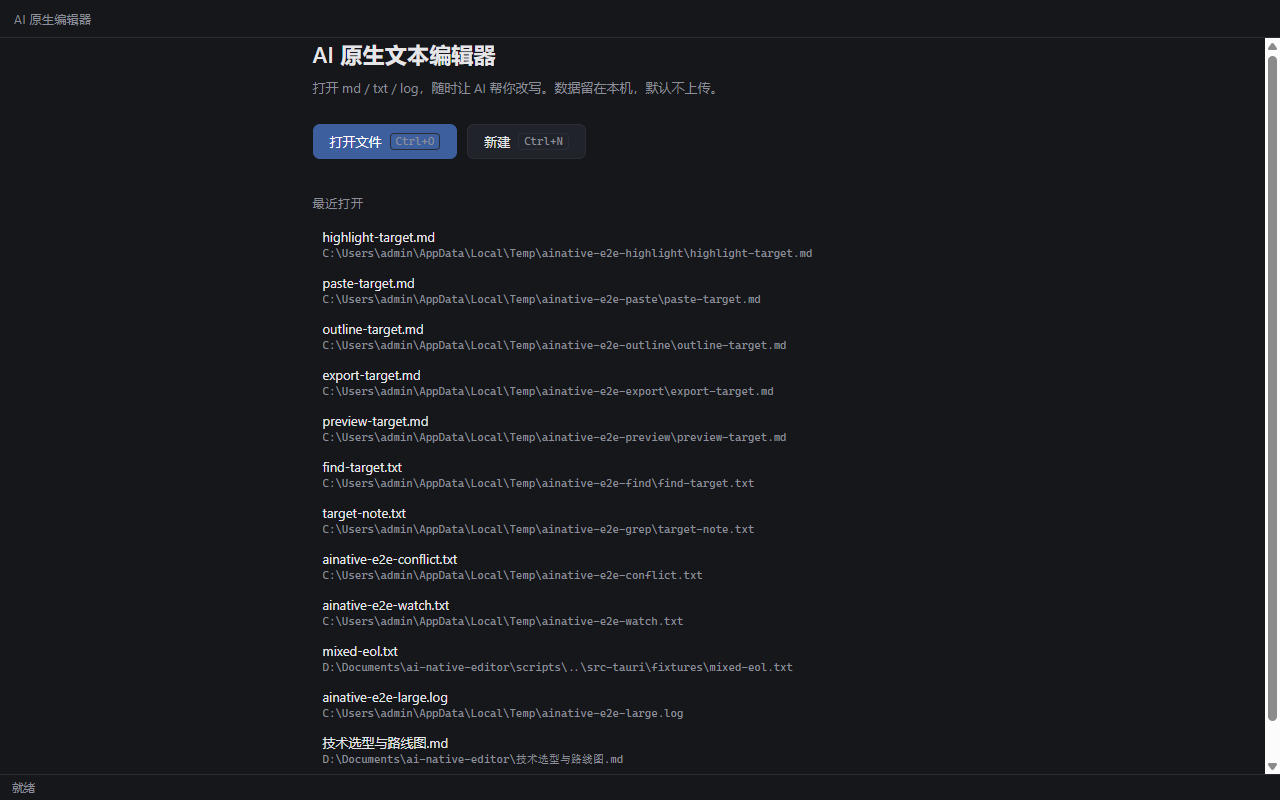
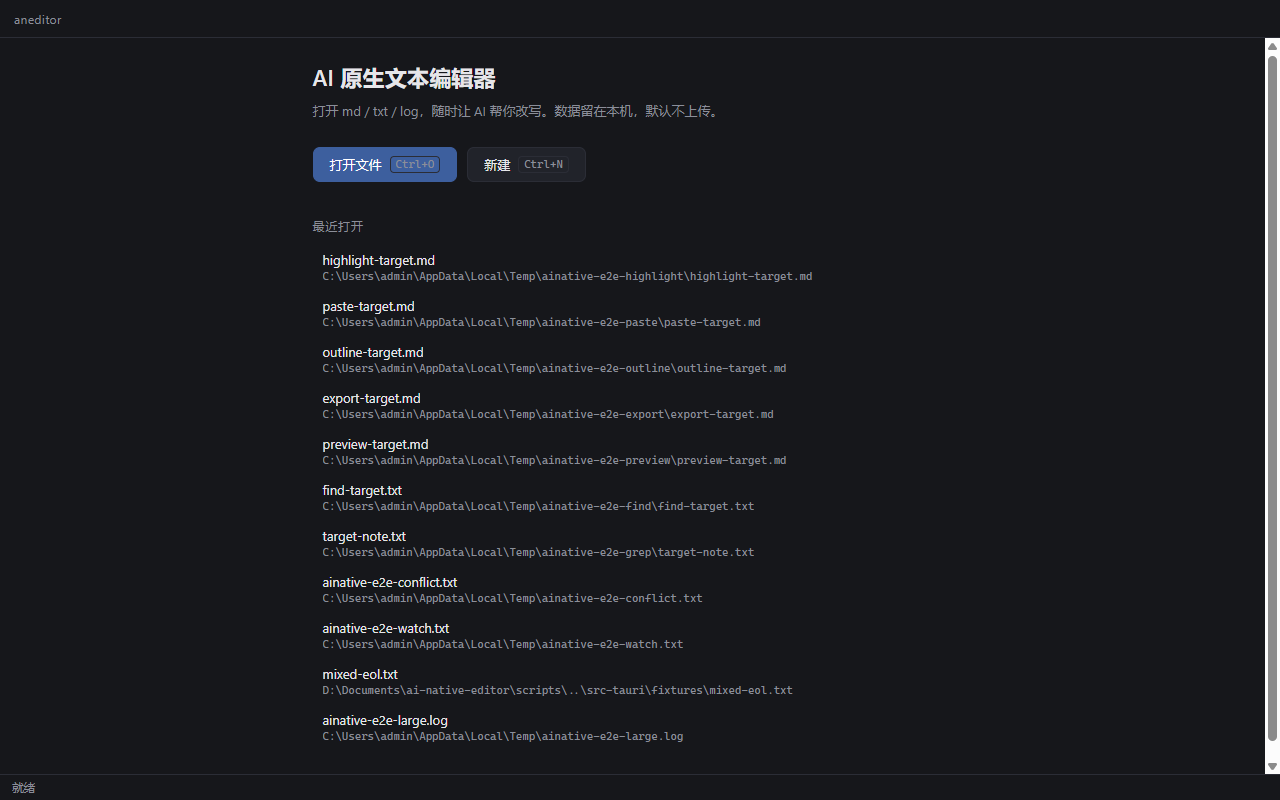
refactor!: rename product to aneditor and bump version to 0.1.1

Changed region(s): [[0.2188, 0.0312, 0.625, 0.9688], [0.0, 0.0, 0.0938, 0.0312], [0.9688, 0.9062, 1.0, 0.9375]]

diff --git a/src/features/TabBar.tsx b/src/features/TabBar.tsx
@@ -13,7 +13,7 @@ export default function TabBar({ onClose }: Props) {
   if (tabs.length === 0) {
     return (
       <div className="tabbar tabbar--empty">
-        <span className="tabbar__brand">AI 原生编辑器</span>
+        <span className="tabbar__brand">aneditor</span>
       </div>
     );
   }

diff --git a/index.html b/index.html
@@ -3,7 +3,7 @@
   <head>
     <meta charset="UTF-8" />
     <meta name="viewport" content="width=device-width, initial-scale=1.0" />
-    <title>AI 原生文本编辑器</title>
+    <title>aneditor</title>
   </head>
   <body>
     <div id="root"></div>

diff --git a/src-tauri/src/main.rs b/src-tauri/src/main.rs
@@ -2,5 +2,5 @@
 #![cfg_attr(not(debug_assertions), windows_subsystem = "windows")]
 
 fn main() {
-    ai_native_editor_lib::run()
+    aneditor_lib::run()
 }

diff --git a/README.md b/README.md
@@ -1,4 +1,4 @@
-# AI 原生文本编辑器
+# aneditor
 
 > 跨平台、极轻、AI 原生的文本工作台。打开 `md` / `txt` / `log` 就能用，数据留在本机。
 
@@ -6,7 +6,7 @@
 [![Release](https://img.shields.io/github/v/release/wufangqi/aneditor?label=release)](https://github.com/wufangqi/aneditor/releases/latest)
 [![License](https://img.shields.io/github/license/wufangqi/aneditor)](./LICENSE)
 
-**当前阶段：M0–M2 已交付并发布 v0.1.0（编码内核、数据安全加固、大文件分级只读预览、文件监听、跨文件 grep、Markdown 分屏预览/导出/大纲/图片粘贴/Shiki 高亮），下一步 M3 AI 层**
+**当前阶段：M0–M2 已交付并发布 v0.1.1（编码内核、数据安全加固、大文件分级只读预览、文件监听、跨文件 grep、Markdown 分屏预览/导出/大纲/图片粘贴/Shiki 高亮），下一步 M3 AI 层**
 
 路线图与技术选型：[技术选型与路线图.md](./技术选型与路线图.md) ·
 问题盘点：[docs/项目梳理.md](./docs/项目梳理.md) ·
@@ -43,10 +43,10 @@
 
 ## 安装（终端用户）
 
-从 [Releases v0.1.0](https://github.com/wufangqi/aneditor/releases/tag/v0.1.0) 下载：
+从 [Releases v0.1.1](https://github.com/wufangqi/aneditor/releases/tag/v0.1.1) 下载：
 
-- `AI.Native.Editor_0.1.0_x64-setup.exe`（NSIS，单用户安装，无需管理员权限，推荐）
-- `AI.Native.Editor_0.1.0_x64_en-US.msi`（企业部署 / 静默安装）
+- `aneditor_0.1.1_x64-setup.exe`（NSIS，单用户安装，无需管理员权限，推荐）
+- `aneditor_0.1.1_x64_en-US.msi`（企业部署 / 静默安装）
 
 卸载走「设置 → 应用」或安装目录下的 `uninstall.exe`。
 
@@ -72,7 +72,7 @@ cd src-tauri && cargo fmt --all -- --check && cargo clippy --all-targets -- -D w
 
 ```powershell
 $env:WEBVIEW2_ADDITIONAL_BROWSER_ARGUMENTS = '--remote-debugging-port=9222'
-Start-Process "$env:LOCALAPPDATA\AI Native Editor\ai-native-editor.exe"
+Start-Process "$env:LOCALAPPDATA\aneditor\aneditor.exe"
 powershell -NoProfile -ExecutionPolicy Bypass -File scripts/e2e-smoke.ps1
 ```
 

diff --git a/docs/待办清单.md b/docs/待办清单.md
@@ -16,7 +16,7 @@
 | 质量 | `tsc` ✅ / `eslint` ✅ / `prettier --check` ✅ / `vitest` ✅ 57/57 / `cargo fmt --check` ✅ / `cargo clippy -D warnings` ✅ / `cargo test --lib` ✅ **49 passed, 0 failed**（另有 3 个 ignored 性能探针，共 52 个用例） |
 | CI | `.github/workflows/ci.yml` 三平台（Windows/macOS/Ubuntu）前端 + Rust 已实跑全绿（run 39599120518） |
 | 构建 | `pnpm tauri build` ✅ MSI 2.77 MB / NSIS 2.10 MB |
-| 安装 | ✅ 已覆盖安装最新构建到 `C:\Users\admin\AppData\Local\AI Native Editor`；Release: https://github.com/wufangqi/aneditor/releases/tag/v0.1.0 |
+| 安装 | ✅ 已覆盖安装最新构建到 `C:\Users\admin\AppData\Local\aneditor`；Release: https://github.com/wufangqi/aneditor/releases/tag/v0.1.1 |
 | 性能 | 冷启动中位 **0.094 s** / 10 MB 解码 **14.1 ms** / 100 MB 行索引 **64.6 ms** / 35 MB 打开到首屏 **458 ms** / 空载私有内存 **220 MB**（预算已改为 ≤230 MB 基线，T23 完成） |
 | 文档 | README（含界面截图）、CHANGELOG、CONTRIBUTING、LICENSE、`docs/perf.md`、`docs/release-checklist.md`、`docs/项目梳理.md`、`docs/assets/`、本清单 |
 
@@ -423,4 +423,4 @@
 | T24 | 三平台 CI 实跑并修到全绿；tag `v0.1.0`（commit 05c5993）；GitHub Release 发布，附 MSI（2.77 MB）与 NSIS（2.10 MB） | CI run 39599120518：Frontend ×3 + Rust ×3 全部 success |
 | CI 修复 | ① `.gitattributes` 标记 `src-tauri/fixtures/** -text`，避免 CRLF 样本被归一化；② watcher 测试容忍 size=0 的 truncate 事件与多后端事件合并；③ macOS FSEvents 路径 canonical 化匹配；④ clippy `unnecessary_fold` | Rust 测试在 Windows / macOS / Linux 全部通过 |
 
-**发布地址**：https://github.com/wufangqi/aneditor/releases/tag/v0.1.0
+**发布地址**：https://github.com/wufangqi/aneditor/releases/tag/v0.1.1

diff --git a/CONTRIBUTING.md b/CONTRIBUTING.md
@@ -39,7 +39,7 @@ cargo test --lib
 
 ```powershell
 $env:WEBVIEW2_ADDITIONAL_BROWSER_ARGUMENTS = '--remote-debugging-port=9222'
-Start-Process "$env:LOCALAPPDATA\AI Native Editor\ai-native-editor.exe"
+Start-Process "$env:LOCALAPPDATA\aneditor\aneditor.exe"
 powershell -NoProfile -ExecutionPolicy Bypass -File scripts/e2e-smoke.ps1
 ```
 
@@ -102,7 +102,7 @@ README 截图（可选，发版前刷新）：
 
 ```powershell
 $env:WEBVIEW2_ADDITIONAL_BROWSER_ARGUMENTS = '--remote-debugging-port=9222'
-Start-Process "$env:LOCALAPPDATA\AI Native Editor\ai-native-editor.exe"
+Start-Process "$env:LOCALAPPDATA\aneditor\aneditor.exe"
 powershell -NoProfile -ExecutionPolicy Bypass -File scripts/capture-screenshots.ps1
 ```
 

diff --git a/CHANGELOG.md b/CHANGELOG.md
@@ -5,6 +5,15 @@
 
 ## [Unreleased]
 
+## [0.1.1] - 2026-10-22
+
+### Changed
+
+- 产品更名为 **aneditor**：可执行文件 `aneditor.exe`、安装目录 `%LOCALAPPDATA%\aneditor`、窗口标题、
+  安装包名（`aneditor_0.1.1_x64-setup.exe` / `.msi`）与 bundle identifier（`dev.aneditor.app`）全部更新，
+  E2E / 截图脚本与文档中的路径同步修改。
+- 注意：bundle identifier 变化后，v0.1.0 的会话与最近文件不会继承；安装新版后旧版本可手动卸载。
+
 ## [0.1.0] - 2026-10-21
 
 ### Added
